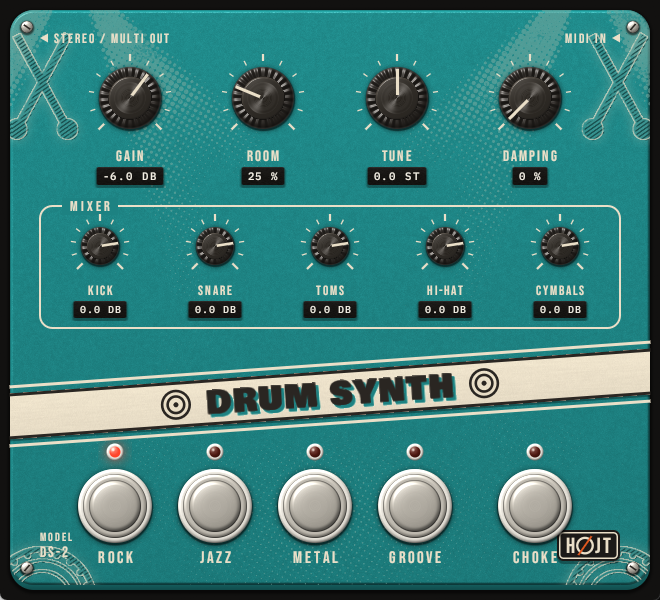
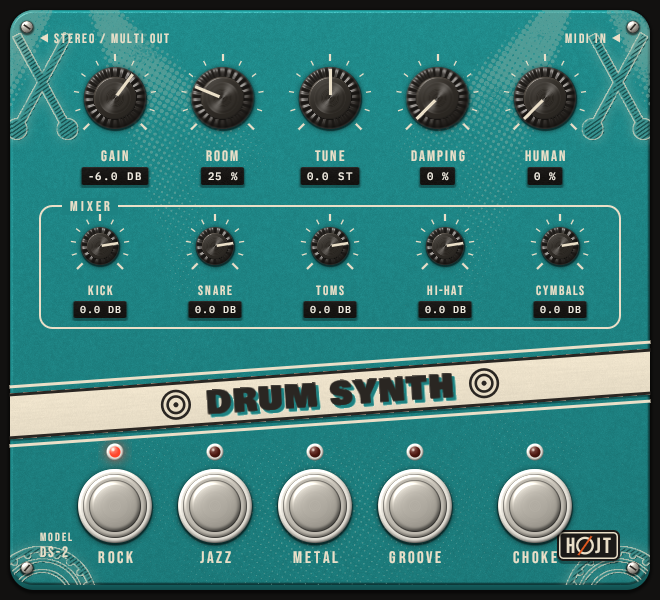
Site: update screenshots and image dimensions for 0.3.0

Changed region(s): [[0.1212, 0.09, 0.8788, 0.33], [0.0, 0.99, 0.0303, 1.0]]

diff --git a/site/dsp/index.html b/site/dsp/index.html
@@ -42,12 +42,12 @@
       pad and glass bells. No sign-up, no ads, no samples to install.</p>
     </div>
     <div class="rig">
-      <a class="amp oxblood" href="#guitar-amp"><img src="../img/guitar-amp.png" width="1590" height="694" alt="The Guitar Amp: an oxblood red amp head above a row of pedals"></a>
+      <a class="amp oxblood" href="#guitar-amp"><img src="../img/guitar-amp.png" width="3204" height="650" alt="The Guitar Amp: an oxblood red amp head above a row of pedals"></a>
       <p class="amp-tag">Guitar Amp <small>GA-3 / effect / six amps, twelve pedals</small></p>
       <nav aria-label="Plugins">
         <ul class="pedalboard">
           <li class="teal"><a href="#drum-synth"><img src="../img/drum-synth.png" width="660" height="600" alt=""><span>Drum Synth</span><small>DS-2 / instrument</small></a></li>
-          <li class="orange"><a href="#pitch-shifter"><img src="../img/pitch-shifter.png" width="400" height="560" alt=""><span>Pitch Shifter</span><small>PS-10 / effect</small></a></li>
+          <li class="orange"><a href="#pitch-shifter"><img src="../img/pitch-shifter.png" width="400" height="600" alt=""><span>Pitch Shifter</span><small>PS-10 / effect</small></a></li>
           <li class="cobalt"><a href="#bass-synth"><img src="../img/bass-synth.png" width="660" height="600" alt=""><span>Bass Synth</span><small>BA-1 / instrument</small></a></li>
           <li class="plum"><a href="#shimmer-pad"><img src="../img/shimmer-pad.png" width="660" height="600" alt=""><span>Shimmer Pad</span><small>SP-1 / instrument</small></a></li>
           <li class="pine"><a href="#glass-bells"><img src="../img/glass-bells.png" width="660" height="600" alt=""><span>Glass Bells</span><small>GB-1 / instrument</small></a></li>
@@ -71,7 +71,7 @@
   <div class="wrap">
     <p class="caption"><b>GA-3</b> / Effect / mono or stereo in, stereo out</p>
     <figure class="shot wide">
-      <img src="../img/guitar-amp.png" width="1590" height="694" alt="The Guitar Amp window: an oxblood red amp head with six dials above a row of small pedals, each in its own colour">
+      <img src="../img/guitar-amp.png" width="3204" height="650" alt="The Guitar Amp window: an oxblood red amp head with six dials above a row of small pedals, each in its own colour">
     </figure>
 
     <div class="cols">
@@ -159,7 +159,7 @@
 
     <div class="cols with-shot">
       <figure class="shot">
-        <img src="../img/drum-synth.png" loading="lazy" width="660" height="600" alt="The Drum Synth window: a teal pedal with nine knobs, a footswitch for each of the four kits and one for Choke">
+        <img src="../img/drum-synth.png" loading="lazy" width="660" height="600" alt="The Drum Synth window: a teal pedal with ten knobs, a footswitch for each of the four kits and one for Choke">
       </figure>
       <div>
         <h3>What it is</h3>
@@ -226,7 +226,7 @@
 
     <div class="cols with-shot">
       <figure class="shot narrow">
-        <img src="../img/pitch-shifter.png" loading="lazy" width="400" height="560" alt="The Pitch Shifter window: an orange pedal with one large knob, two small ones and a footswitch">
+        <img src="../img/pitch-shifter.png" loading="lazy" width="400" height="600" alt="The Pitch Shifter window: an orange pedal with four knobs and a footswitch">
       </figure>
       <div>
         <h3>What it is</h3>
@@ -276,7 +276,7 @@
 
     <div class="cols with-shot">
       <figure class="shot">
-        <img src="../img/bass-synth.png" loading="lazy" width="660" height="600" alt="The Bass Synth window: a cobalt blue pedal with eight knobs and a footswitch for each of the two voices, Metal and Groove">
+        <img src="../img/bass-synth.png" loading="lazy" width="660" height="600" alt="The Bass Synth window: a cobalt blue pedal with nine knobs and a footswitch for each of the two voices, Metal and Groove">
       </figure>
       <div>
         <h3>What it is</h3>
@@ -378,7 +378,7 @@
 
     <div class="cols with-shot">
       <figure class="shot">
-        <img src="../img/glass-bells.png" loading="lazy" width="660" height="600" alt="The Glass Bells window: a pine green pedal with two bells printed on it, ten knobs and footswitches for Delay and Reverb">
+        <img src="../img/glass-bells.png" loading="lazy" width="660" height="600" alt="The Glass Bells window: a pine green pedal with two bells printed on it, ten knobs and footswitches for Delay, Sync and Reverb">
       </figure>
       <div>
         <h3>What it is</h3>

diff --git a/site/index.html b/site/index.html
@@ -55,7 +55,7 @@
     <article class="unit dsp">
       <a class="face" href="dsp/" aria-label="HØJT DSP: see and hear the plugins">
         <h2 class="band">HØJT DSP</h2>
-        <img src="img/guitar-amp.png" width="1590" height="694" alt="The Guitar Amp window: an oxblood red amp head with six dials above a row of small pedals">
+        <img src="img/guitar-amp.png" width="3204" height="650" alt="The Guitar Amp window: an oxblood red amp head with six dials above a row of small pedals">
       </a>
       <ol class="board" aria-label="The six plugins">
         <li class="oxblood"><a href="dsp/#guitar-amp">Guitar Amp<small>GA-3</small></a></li>
